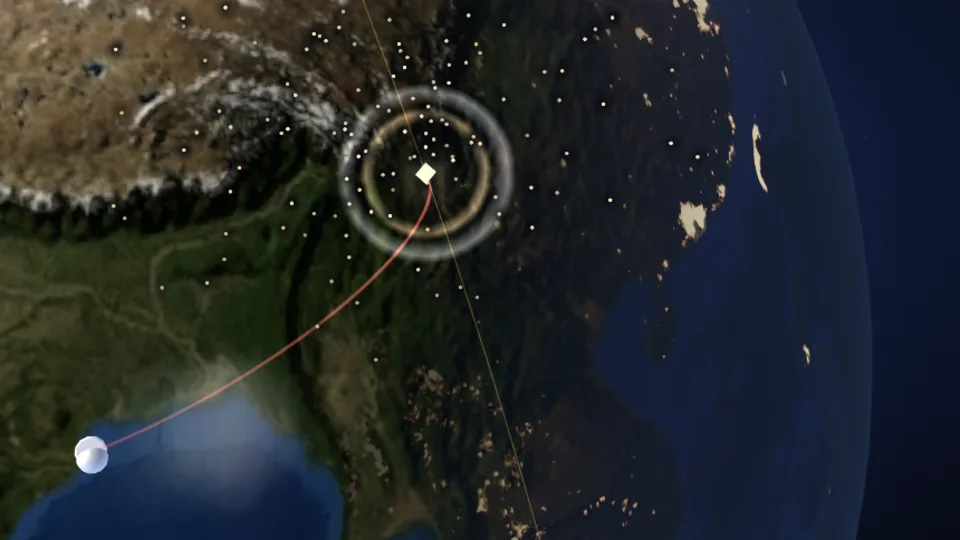
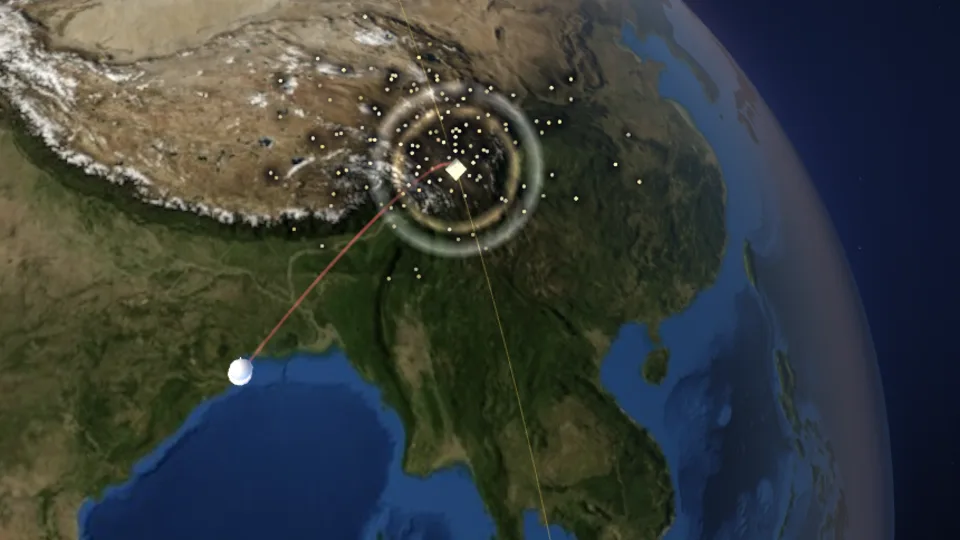
shakti: side view after the hit again; regenerate posters (starfish, solwind, burnt-frost, shakti, dn2, fengyun, cosmos1408)
Claude-Session: https://claude.ai/code/session_01RyENr88bMjMEvXCVeqzctV

diff --git a/counterspace/src/scenes/cameras.js b/counterspace/src/scenes/cameras.js
@@ -112,7 +112,11 @@ export function buildCameras({ cfg, items, H, tgt, aircraftPos, focus, anchors, 
       // (a rocket standing on its pad stands upright in the frame, not on its side)
       south = (cfg.fitSouth ?? 0) * DEG,
       north = cross3(cn, norm(cross3([0, 1, 0], cn))),
-      n = south ? norm(add(scl(cn, Math.cos(south)), scl(north, -Math.sin(south)))) : norm(add(scl(cn, Math.cos(tilt)), scl(norm(sd), Math.sin(tilt) * (cfg.fitSide ?? 1)))),
+      nTilt = norm(add(scl(cn, Math.cos(tilt)), scl(norm(sd), Math.sin(tilt) * (cfg.fitSide ?? 1)))),
+      nSouth = south ? norm(add(scl(cn, Math.cos(south)), scl(north, -Math.sin(south)))) : nTilt,
+      n = nSouth,
+      // fitSouthTo (opt-in, scene time): the keys after it return to the usual side view (the burst and the debris are framed from the side, as before)
+      nAt = (tk) => (south && cfg.fitSouthTo != null && tk > cfg.fitSouthTo + 1e-9 ? nTilt : nSouth),
       cache = {},
       burst = items.find((i) => i.kind === 'flash' && i.big && tgt.hitPos && i.pos === tgt.hitPos) || items.find((i) => i.kind === 'flash' && i.big),
       hn = norm(tgt.hitPos),
@@ -132,7 +136,7 @@ export function buildCameras({ cfg, items, H, tgt, aircraftPos, focus, anchors, 
           if (cfg.fitCross && items._cross && tk > ht) P.push(items._cross); // fitCross: the crossing with the other orbit (the ISS's) stays in view
           return fitPose(
             P,
-            cfg.fitLateView && tk >= (cfg.fitLateViewFrom ?? 0.6) ? ll(cfg.fitLateView[0], cfg.fitLateView[1]) : n,
+            cfg.fitLateView && tk >= (cfg.fitLateViewFrom ?? 0.6) ? ll(cfg.fitLateView[0], cfg.fitLateView[1]) : nAt(tk),
             scl(cfg.dropCoreFrom != null && tk >= cfg.dropCoreFrom ? centroid(P) : add(scl(c0, 0.5), scl(centroid(P), 0.5)), cfg.lookK ?? 0.97),
             {
               dMin: cfg.fitMinKeys?.[ki] ?? cfg.fitMin ?? 0.3, // fitMinKeys (opt-in): a minimum camera distance per key time

diff --git a/counterspace/src/scenes/configs/shakti.js b/counterspace/src/scenes/configs/shakti.js
@@ -27,6 +27,7 @@ export const SHAKTI = {
   launchAt: [2.67, 1.55, 0.5],
   earlyKey: true,
   burstPadFrom: 0.3, // the first key frames are fitted to the island, the interceptor and the satellite, not the later burst ring
+  fitSouthTo: 0.38, // after the hit the view returns to the side view (the burst and the debris stay framed)
   fitSouth: 52, // the view is turned toward the south, so the vehicle on its pad stands upright in the frame (seen from the side of the Earth it lay on its side)
   lookK: 0.9, // the Earth sits nearer the middle of the frame, not against its left edge
   lightsK: 0.55, // softer city lights: the fragments read as debris, not as another town
